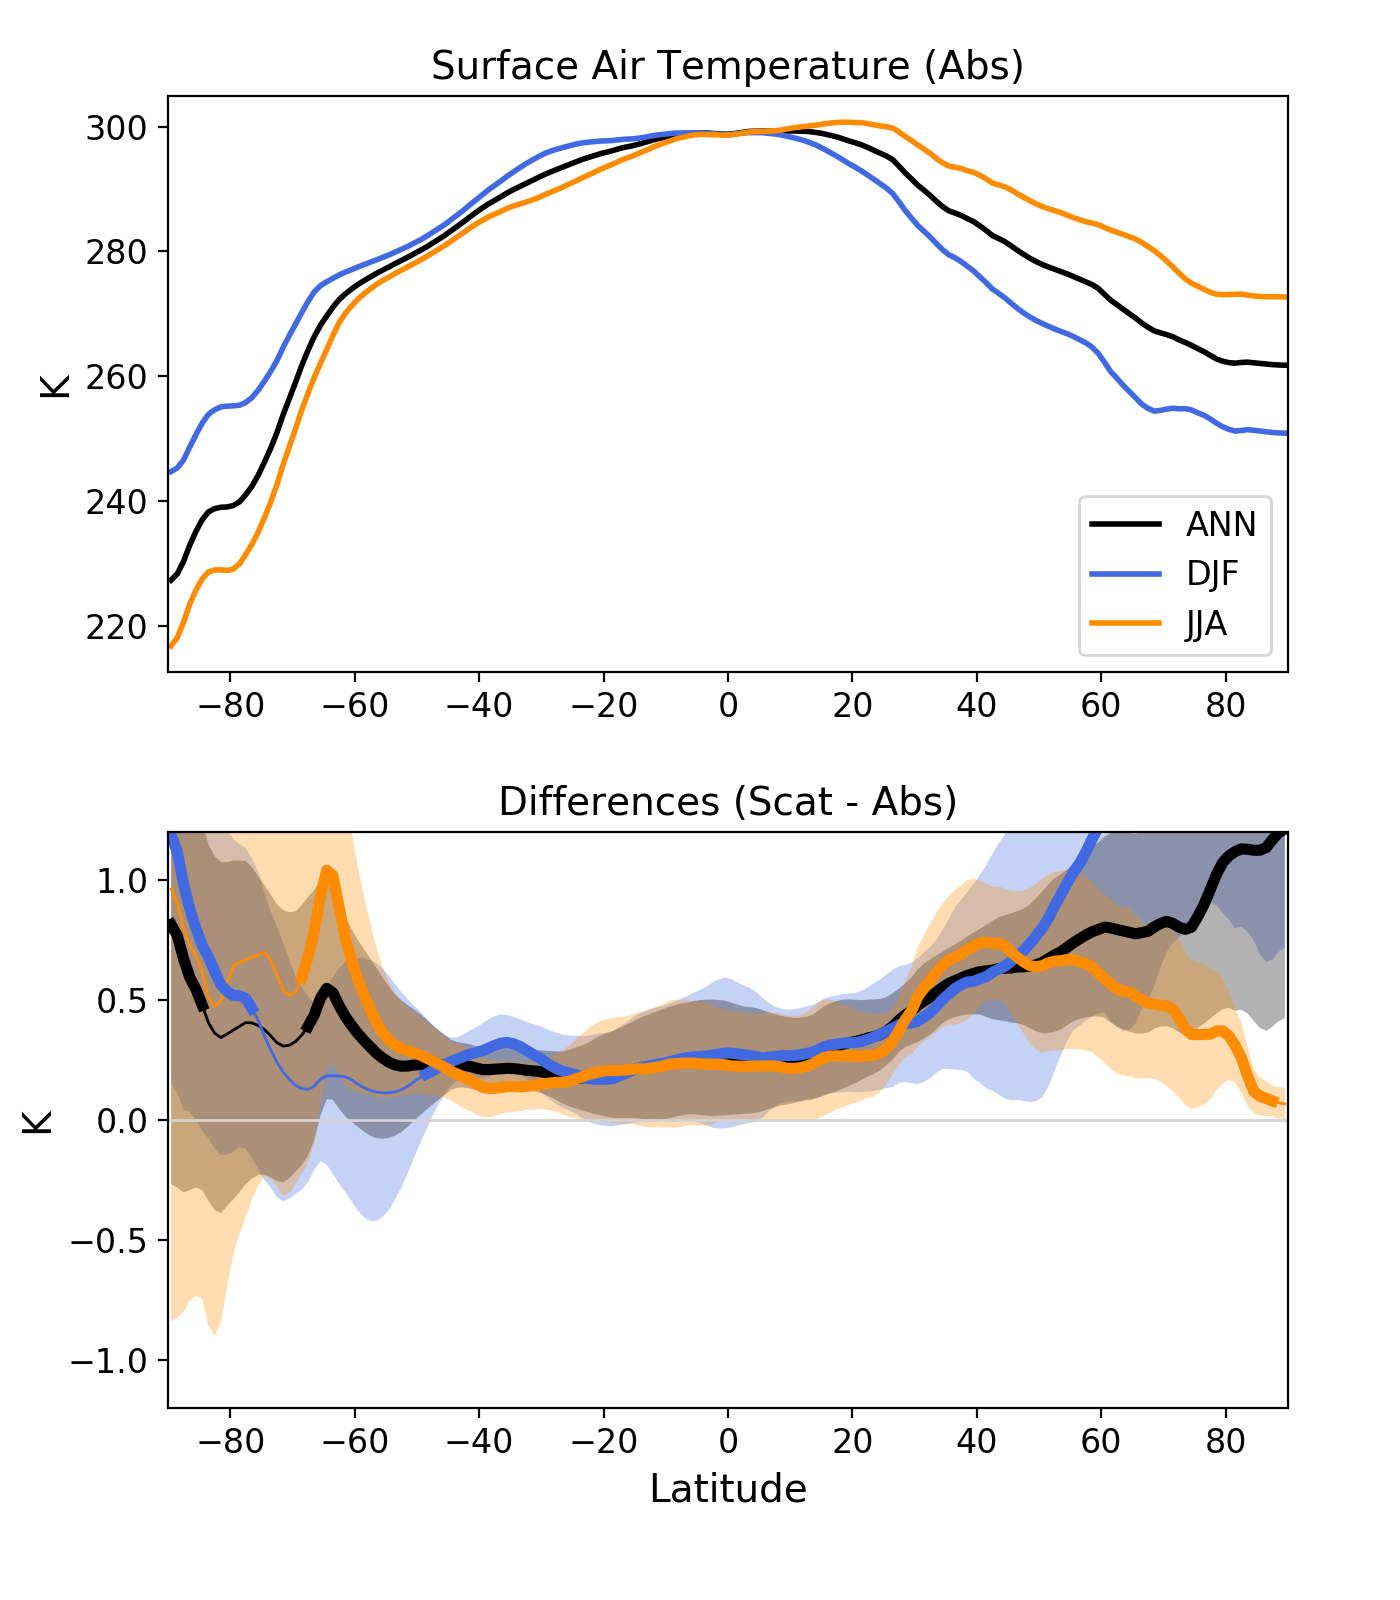
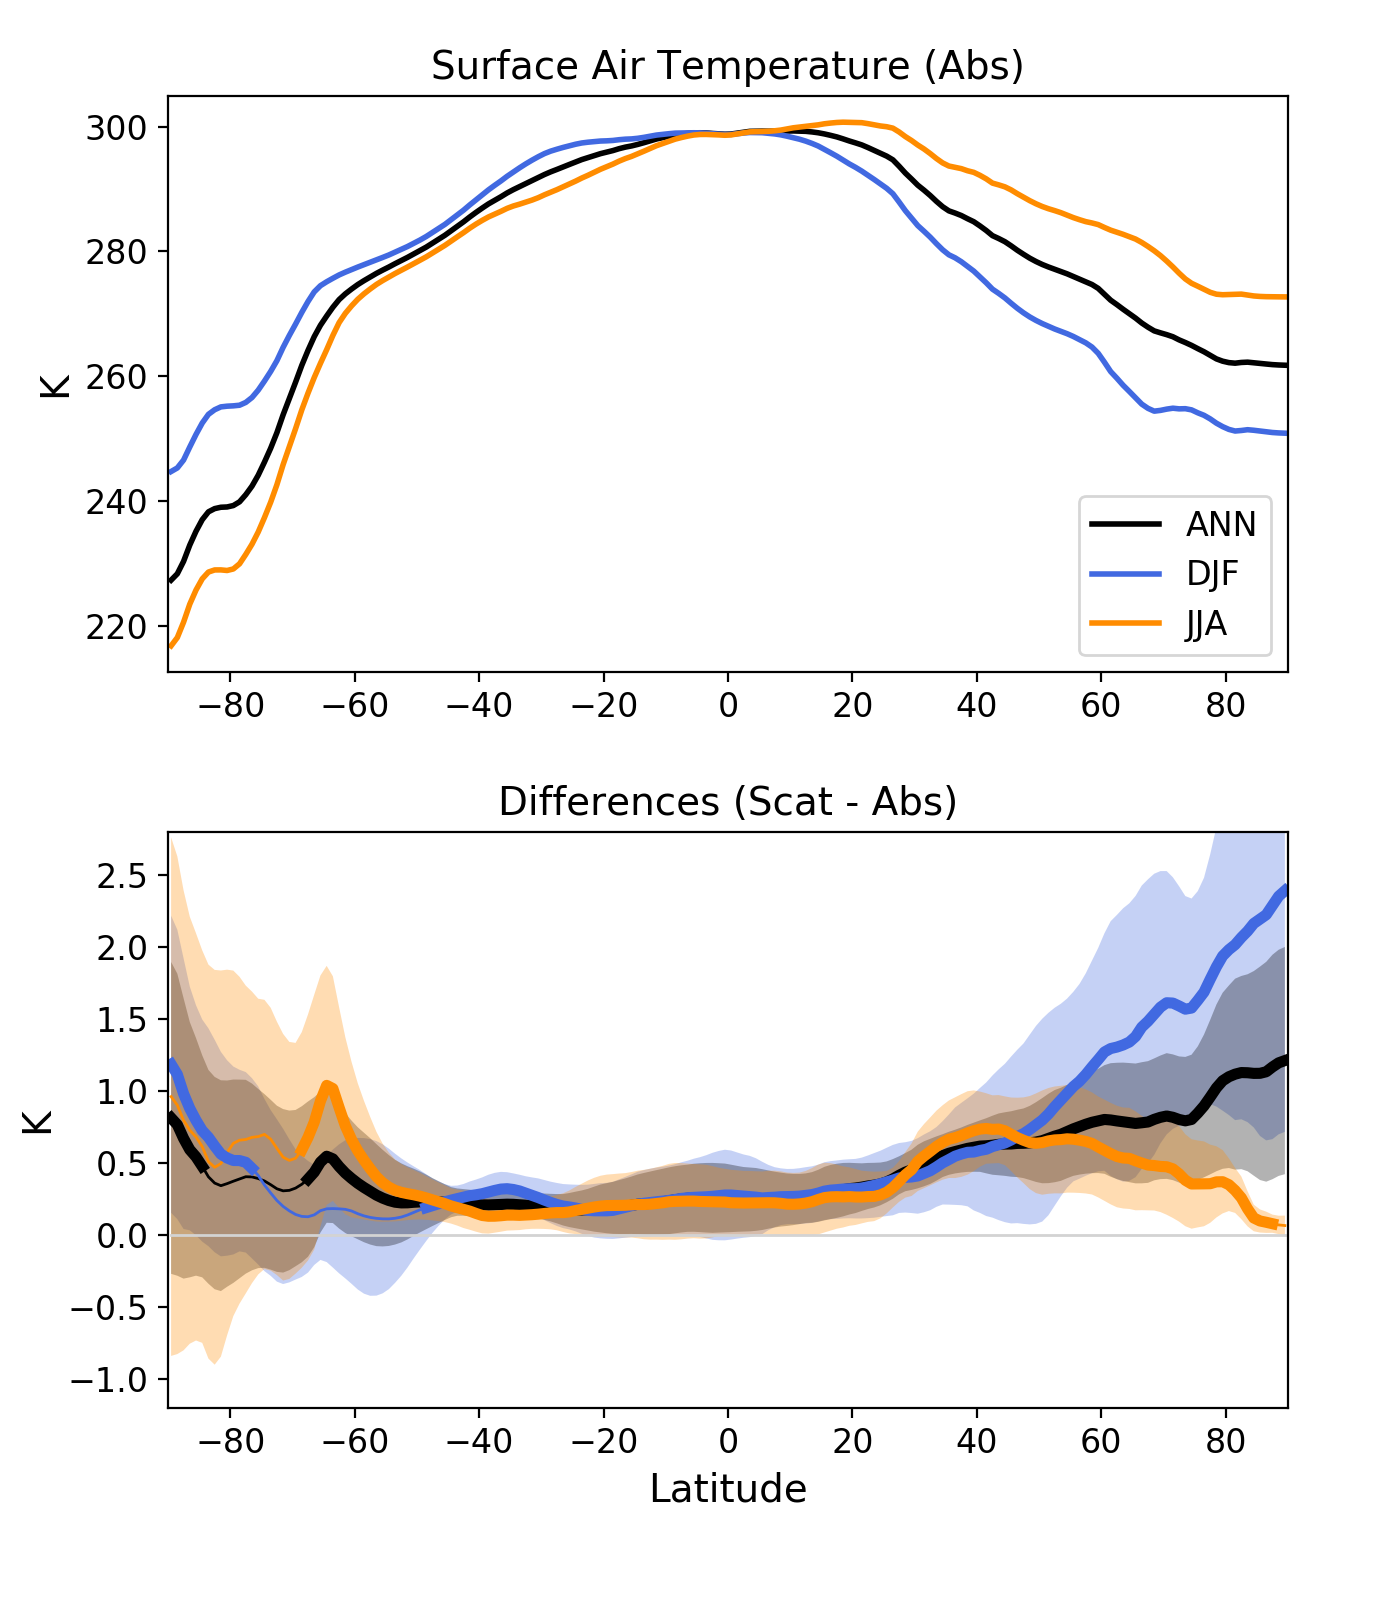
modify ylim

Changed region(s): [[0.0614, 0.5, 0.9214, 0.875]]

diff --git a/d4_zonal_mean_model_vs_model.py b/d4_zonal_mean_model_vs_model.py
@@ -45,7 +45,7 @@ var_group_todo=1
 varnms=np.array(["TREFHT"])
 #varnms=np.array(["FSNTOA","FSNS","TS"])
 var_long_name="Surface air Temperature"
-figure_name="Surface_air_Temperature_zonal_ANN_AMIP_scat_vs_abs_2005-10"
+figure_name="Surface_air_Temperature_zonal_ANN_AMIP_scat_vs_abs_2005-21"
 units="K"
 #var_long_name="Surface Net SW"
 #figure_name="Surface_Net_SW_zonal_ANN"
@@ -264,7 +264,7 @@ ax2.set_title("Differences (Scat - Abs)",fontsize=14) #+var_long_name,fontsize=1
 ax2.set_ylabel(units,fontsize=14)
 ax2.set_xlabel("Latitude",fontsize=14)
 ax2.set_xlim(-90,90)
-ax2.set_ylim(-1.2,1.8)
+ax2.set_ylim(-1.2,2.8)
 plt.xticks(fontsize=12)
 plt.yticks(fontsize=12)
 
